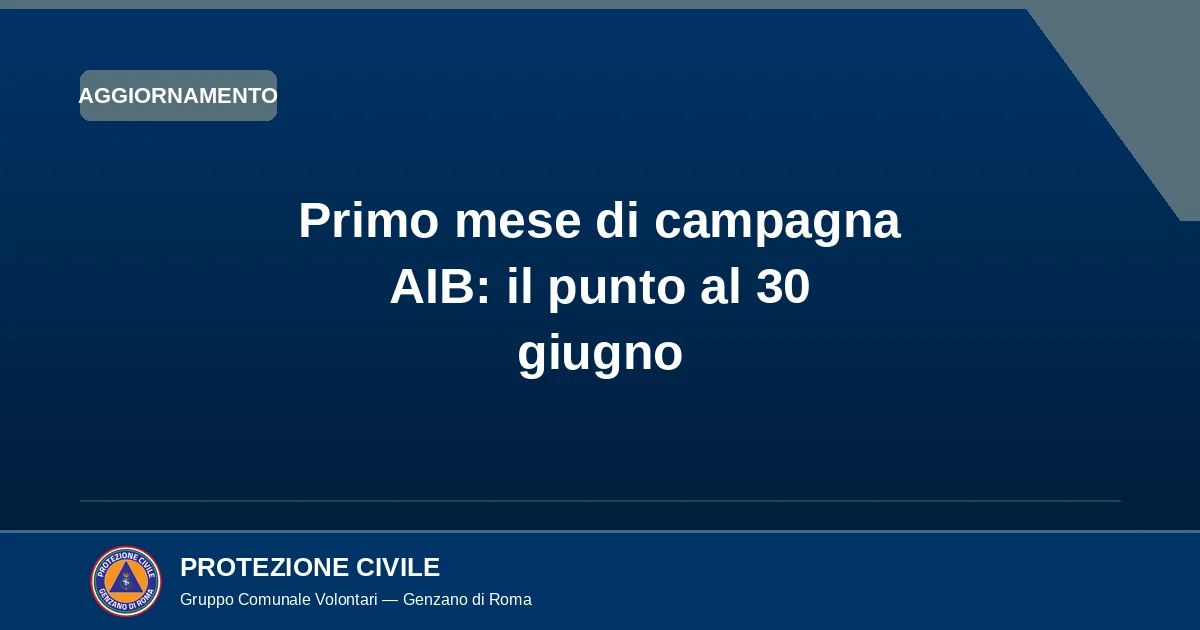
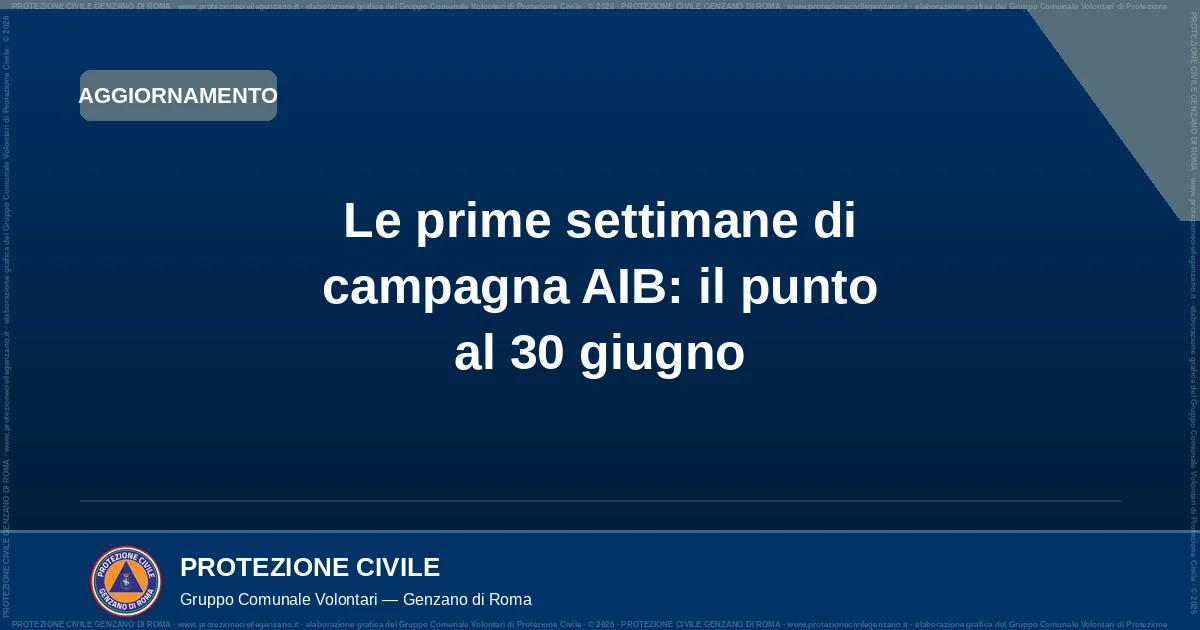
Bilancio AIB del 30 giugno: «le prime settimane», non «il primo mese»
Al 30 giugno la campagna era cominciata da due settimane (15 giugno):
il titolo «Primo mese di campagna AIB» e la chiusura «Un mese è passato»
non tornavano. Nuovo titolo, copertina rigenerata, descrizione
dell'immagine allineata alla copertina, testo dei quattro link che citano
l'articolo (catalogo dei rischi, articoli del 1° e del 4 luglio).

diff --git a/content/conoscere/catalogo-dei-rischi/rischio-incendio.md b/content/conoscere/catalogo-dei-rischi/rischio-incendio.md
@@ -53,7 +53,7 @@ Significa che la prevenzione dei comportamenti è la prima difesa: ne parliamo a
 
 ## La campagna AIB e la previsione del pericolo
 
-In Italia l'attività di **lotta agli incendi boschivi (AIB)** si concentra nella **campagna estiva**, di norma da giugno a settembre, quando la vegetazione è più secca. È il periodo in cui il volontariato di protezione civile, insieme ai Vigili del Fuoco e alle squadre regionali, intensifica la sorveglianza del territorio. Il nostro Gruppo vi partecipa: lo raccontiamo nelle schede sul [primo mese della campagna AIB 2026](/comunicazioni/2026-06-30-bilancio-primo-mese-aib-2026/) e sulle [attrezzature e tecniche di attacco](/comunicazioni/2026-04-11-antincendio-boschivo-triangolo-fuoco-attrezzature-tecniche-attacco/).
+In Italia l'attività di **lotta agli incendi boschivi (AIB)** si concentra nella **campagna estiva**, di norma da giugno a settembre, quando la vegetazione è più secca. È il periodo in cui il volontariato di protezione civile, insieme ai Vigili del Fuoco e alle squadre regionali, intensifica la sorveglianza del territorio. Il nostro Gruppo vi partecipa: lo raccontiamo nelle schede sulle [prime settimane della campagna AIB 2026](/comunicazioni/2026-06-30-bilancio-primo-mese-aib-2026/) e sulle [attrezzature e tecniche di attacco](/comunicazioni/2026-04-11-antincendio-boschivo-triangolo-fuoco-attrezzature-tecniche-attacco/).
 
 Ogni giorno, durante la campagna, il **Centro Funzionale Regionale del Lazio** pubblica il **Bollettino di pericolosità da incendi boschivi**, elaborato con il modello previsionale **RISICO** sviluppato dalla **Fondazione CIMA**. Il bollettino stima il pericolo per ciascuna zona di allerta con quattro livelli — **basso, medio, moderato, elevato** —, ai quali il nostro sito associa i colori verde, giallo, arancione e rosso. Il territorio di **Genzano di Roma rientra nella zona AIB 9** (Castelli Romani). Il nostro sito riporta automaticamente il livello aggiornato nella barra di allerta della homepage e nel [Cruscotto del territorio](/cruscotto/).
 
@@ -76,7 +76,7 @@ Il volontariato di protezione civile, come il nostro Gruppo, contribuisce soprat
 
 - [Rischio incendio: cosa fare](/rischi-prevenzione/rischio-incendio/) — la pagina operativa con i comportamenti di autoprotezione.
 - [Il triangolo del fuoco e la prevenzione](/comunicazioni/2026-04-13-triangolo-del-fuoco-prevenzione-incendi/).
-- [Primo mese di campagna AIB: il punto al 30 giugno](/comunicazioni/2026-06-30-bilancio-primo-mese-aib-2026/) e [attrezzature e tecniche di attacco](/comunicazioni/2026-04-11-antincendio-boschivo-triangolo-fuoco-attrezzature-tecniche-attacco/).
+- [Le prime settimane di campagna AIB: il punto al 30 giugno](/comunicazioni/2026-06-30-bilancio-primo-mese-aib-2026/) e [attrezzature e tecniche di attacco](/comunicazioni/2026-04-11-antincendio-boschivo-triangolo-fuoco-attrezzature-tecniche-attacco/).
 - [Le quattro fasi della protezione civile](/conoscere/le-quattro-fasi/) e il [Cruscotto del territorio](/cruscotto/).
 
 ## Per approfondire — fonti istituzionali

diff --git a/content/comunicazioni/2026-06-30-bilancio-primo-mese-aib-2026.md b/content/comunicazioni/2026-06-30-bilancio-primo-mese-aib-2026.md
@@ -1,12 +1,12 @@
 ---
-title: "Primo mese di campagna AIB: il punto al 30 giugno"
+title: "Le prime settimane di campagna AIB: il punto al 30 giugno"
 date: 2026-06-30
 description: "A fine giugno, un primo bilancio della campagna antincendio boschivo 2026 e un richiamo ai comportamenti per i mesi più caldi."
 badge: "Aggiornamento"
 priorita: "normale"
 autore: "Gruppo Comunale Volontari PC Genzano"
 image: "/images/2026-06-30-bilancio-primo-mese-aib-2026.webp"
-image_alt: "Elicottero regionale in volo sopra le colline dei Castelli Romani durante una missione antincendio"
+image_alt: "Cover dell'articolo: Le prime settimane di campagna AIB: il punto al 30 giugno"
 scadenza: ""
 area: "Genzano di Roma"
 allegati: []
@@ -123,4 +123,4 @@ La **prevenzione partecipativa** è uno degli strumenti più efficaci, perché r
 - [DPC — Rischio incendi](https://rischi.protezionecivile.gov.it/it/incendi-boschivi-0/)
 - [Regione Lazio — Protezione Civile](https://www.regione.lazio.it/protezione-civile)
 
-Un mese è passato. Ne restano tre in cui ogni gesto individuale pesa sulla sicurezza collettiva. Continuiamo con attenzione.
+Le prime due settimane sono passate. Restano i mesi più caldi, in cui ogni gesto individuale pesa sulla sicurezza collettiva. Continuiamo con attenzione.

diff --git a/content/comunicazioni/2026-07-04-turni-avvistamento-aib-come-funzionano.md b/content/comunicazioni/2026-07-04-turni-avvistamento-aib-come-funzionano.md
@@ -146,7 +146,7 @@ Se sei cittadino interessato a diventare volontario, [contatta il Gruppo](/diven
 ## Per approfondire
 
 - Articolo: [Avvio campagna AIB Lazio 2026](/rischi-prevenzione/rischio-incendio/)
-- Articolo: [Bilancio primo mese AIB](/comunicazioni/2026-06-30-bilancio-primo-mese-aib-2026/)
+- Articolo: [Le prime settimane di campagna AIB](/comunicazioni/2026-06-30-bilancio-primo-mese-aib-2026/)
 - Articolo: [DPI del volontario PC](/comunicazioni/2026-06-17-dpi-volontari-cosa-sono-perche-importanti/)
 - Pagina: [Diventa volontario](/diventa-volontario/)
 - [Regione Lazio — Protezione Civile](https://www.regione.lazio.it/protezione-civile)

diff --git a/content/comunicazioni/2026-07-01-luglio-mese-piu-caldo-statistico.md b/content/comunicazioni/2026-07-01-luglio-mese-piu-caldo-statistico.md
@@ -121,7 +121,7 @@ Il Gruppo comunale in questo mese:
 
 - Articolo: [Ondate di calore](/comunicazioni/2026-06-15-ondate-calore-anziani-fragili-proteggere/)
 - Articolo: [Temporali estivi Castelli](/comunicazioni/2026-06-13-temporali-estivi-castelli-romani/)
-- Articolo: [Bilancio primo mese AIB](/comunicazioni/2026-06-30-bilancio-primo-mese-aib-2026/)
+- Articolo: [Le prime settimane di campagna AIB](/comunicazioni/2026-06-30-bilancio-primo-mese-aib-2026/)
 - [Ministero della Salute — Caldo](https://www.salute.gov.it/)
 - [ARPA Lazio — Dati climatici](https://www.arpalazio.it/)
 - [Aeronautica Militare — Meteo](https://www.meteoam.it/)
